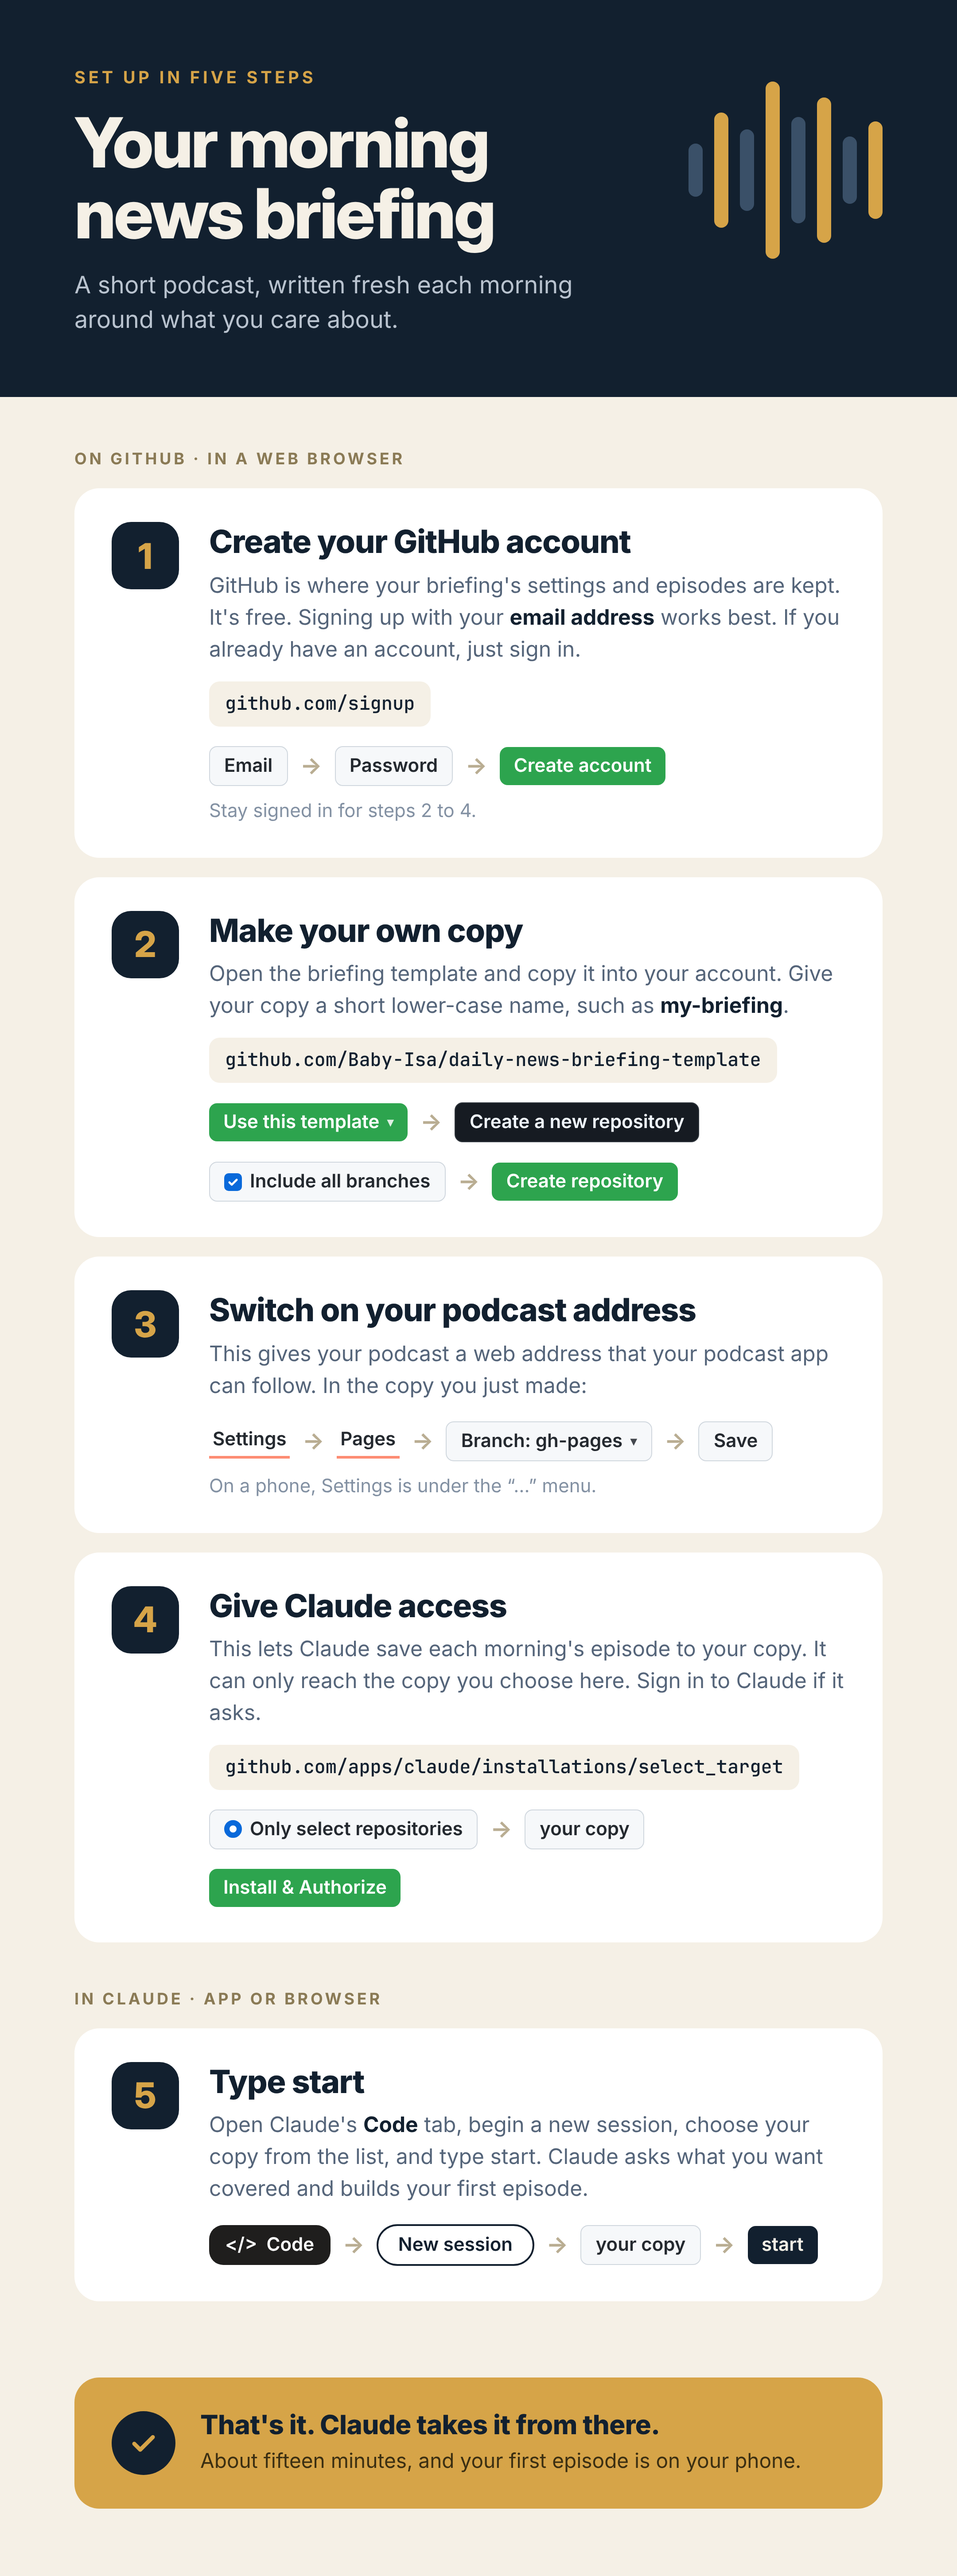
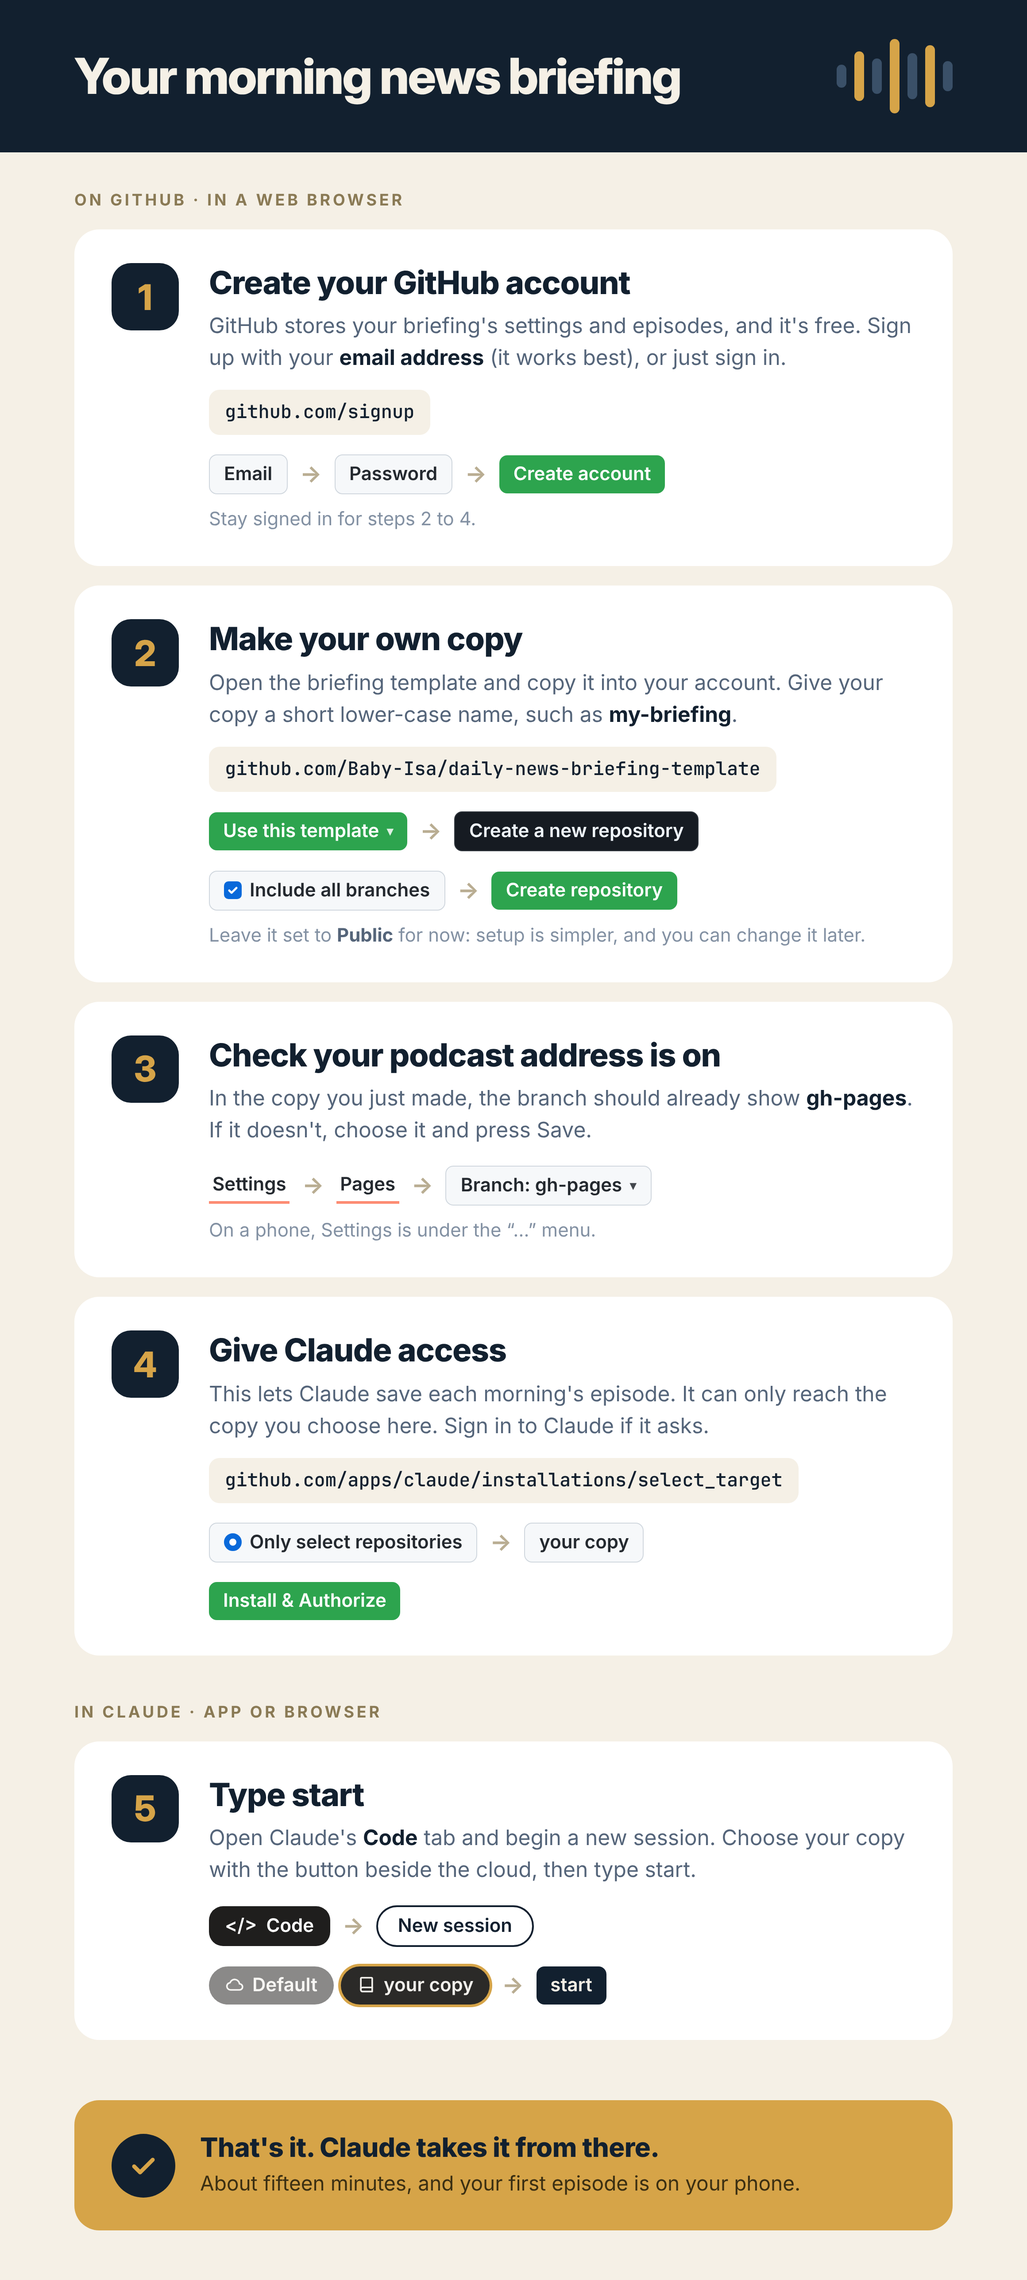
Faster setup: no source testing during onboarding; guide refinements
- Onboarding no longer runs news builds to test sources. New sources are
  checked against the first episode's own build and repaired afterwards.
  The early news build in step 1 is gone too.
- Guide: wider, title-only header, "leave it Public for now", step 3 is
  now a check (gh-pages is already selected in a fresh copy), and step 5
  shows the repository button beside the cloud.

Claude-Session: https://claude.ai/code/session_014xb3kSs1bFerZKEqYihqMs

diff --git a/ONBOARDING.md b/ONBOARDING.md
@@ -135,11 +135,6 @@ make it public (Settings, General, bottom of the page, "Change
 visibility") or to upgrade GitHub. Explain both in two lines and let them
 choose.
 
-**Start the first news build** so real news is ready for the first
-episode: `SINCE=$(date -u +%s)`, then the GitHub Actions tool, method
-`run_workflow`, `workflow_id` `digest.yml`, `ref` `main`. Carry on talking
-while it runs.
-
 ## Step 2 - The ten topics, one at a time
 
 Send each of these as its own message, exactly in this form, and wait for
@@ -305,25 +300,29 @@ anyone who has the address. Offer to walk them through it after setup.
 >
 > Type "Yes" to leave it to me, or name them.
 
-Then do the work without narrating it:
+Then do the work without narrating it, and without testing anything now:
 
 1. `feeds.txt` already covers the ten default topics. Remove lanes for
    anything they dropped.
 2. For each new interest, copy matching lines from `feeds-library.txt`, or
    build one using the patterns at the bottom of that file. Each watchlist
    name gets a Google News search line under the lane `Watchlist`, flagged
-   `RARE`. For each source they asked for by name, find its RSS feed.
-3. **Test through GitHub, not here.** Commit and push `feeds.txt`,
-   `SINCE=$(date -u +%s)`, start the news build (`digest.yml`), then
-   `python3 tools/wait_for_digest.py --since $SINCE`. Read the "SOURCES
-   THAT FAILED TODAY" block at the end of `digest.txt`.
-4. For each new source that failed: replace it with a Google News
-   `site:` search for that publication (pattern in `feeds-library.txt`),
-   and build once more. Stop after two rounds; drop what still fails and
-   tell them which source you could not get.
-5. Tell them plainly, in one message, about anything that will not work
-   as they might expect: "The Financial Times and similar paid sites only
-   give me headlines and short summaries, not full articles."
+   `RARE`. For each source they asked for by name, add its RSS feed; if
+   you are not sure of the address, use a Google News `site:` search for
+   that publication instead, which almost always works.
+3. Commit and push `feeds.txt`. Do NOT run a news build to test it: that
+   added three builds and several minutes to the first real setup. The
+   first episode's own build (step 6) is the test.
+4. If they named a paid publication, tell them in one line: "The
+   Financial Times and similar paid sites only give me headlines and short
+   summaries, not full articles."
+
+**After the first episode is out** (step 6), read "SOURCES THAT FAILED
+TODAY" at the end of `digest.txt`. For each source YOU added that failed,
+swap in a Google News `site:` search and push; tomorrow's build picks it
+up. Mention it to the listener only if a source they asked for by name
+could not be found at all. Everything else is repaired by the weekly
+review.
 
 ## Step 5 - Format
 

diff --git a/README.md b/README.md
@@ -24,24 +24,25 @@ address works best. If you already have an account, just sign in.
 **2. Make your own copy.** Press the green **Use this template** button at
 the top of this page, then **Create a new repository**. Give it a short
 name in lower case (for example `my-briefing`), tick **Include all
-branches**, and press **Create repository**.
+branches**, and press **Create repository**. Leave it set to **Public**
+for now: setup is simpler, and you can change it later.
 
-**3. Switch on your podcast address.** This gives your podcast a web
-address your podcast app can follow. In your new copy, open **Settings**
-(on a phone it is under the "..." menu), then **Pages**. Under **Branch**
-choose **gh-pages**, leave the folder as **/ (root)**, and press **Save**.
+**3. Check your podcast address is on.** In your new copy, open
+**Settings** (on a phone it is under the "..." menu), then **Pages**. The
+branch should already show **gh-pages**. If it doesn't, choose it and
+press **Save**.
 
-**4. Give Claude access.** This lets Claude save each morning's episode to
-your copy. It can only reach the copy you choose here. Open
+**4. Give Claude access.** This lets Claude save each morning's episode.
+It can only reach the copy you choose here. Open
 [github.com/apps/claude/installations/select_target](https://github.com/apps/claude/installations/select_target),
 choose your account, select **Only select repositories** and the copy you
 just made, and press **Install & Authorize**. If it asks you to sign in to
 Claude, do.
 
-**5. Type start.** In Claude, open the **Code** tab, begin a new session,
-pick your copy from the list, and type **start**. Claude takes it from
-there: it asks what you want covered, makes a first episode, and puts it
-on your phone.
+**5. Type start.** In Claude, open the **Code** tab and begin a new
+session. Choose your copy with the button beside the cloud icon, then type
+**start**. Claude takes it from there: it asks what you want covered,
+makes a first episode, and puts it on your phone.
 
 ## Afterwards
 

diff --git a/CLAUDE.md b/CLAUDE.md
@@ -59,12 +59,13 @@ Three working rules:
 
 - **Edit `profile.md` by heading.** Replace the whole block under the
   heading you are changing; never edit by line number.
-- **Test a new source through GitHub.** This container's network blocks
-  most publishers, so `tools/test_feed.py` usually fails here whatever the
-  source. Instead: push `feeds.txt`, start the news build (`digest.yml`),
-  wait for it (`tools/wait_for_digest.py --since <time>`), and read
-  "SOURCES THAT FAILED TODAY" at the end of `digest.txt`. Replace a
-  blocked publication with a Google News `site:` search.
+- **Check a new source after the next build, not before.** This
+  container's network blocks most publishers, so `tools/test_feed.py`
+  usually fails here whatever the source. Add the line to `feeds.txt` and
+  push; after the next morning's build, read "SOURCES THAT FAILED TODAY"
+  at the end of `digest.txt`. Replace a blocked publication with a Google
+  News `site:` search. Run an extra build only if they ask to hear the
+  change today.
 - **Always `git pull --rebase origin main` before pushing.** The news
   build commits to `main` on its own.
 

diff --git a/setup-progress.md b/setup-progress.md
@@ -6,7 +6,7 @@ is empty, setup is not complete: resume at the first empty box.
 - [ ] 1. Welcome; permission to save and publish; podcast app; saving and the podcast address both checked
 - [ ] 2. The ten topics
 - [ ] 3. Watchlist
-- [ ] 4. Sources, tested through the news build
+- [ ] 4. Sources added (checked after the first episode, not before)
 - [ ] 5. Format: length, tone, weather place, voice, time, show name
 - [ ] 6. First episode published and the podcast address confirmed live
 - [ ] 7. Playing on their phone; first feedback applied
